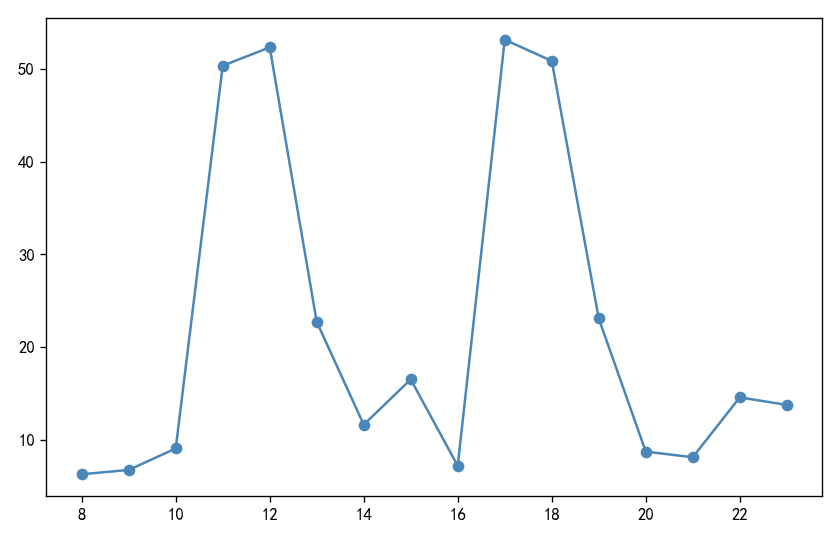
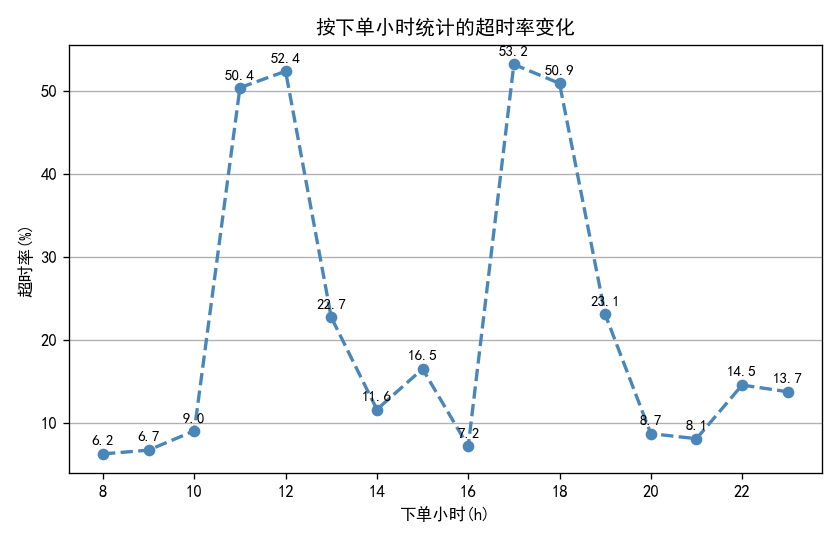
exp2 fig2 build final

Changed region(s): [[0.0, 0.0296, 0.9905, 0.9778]]

diff --git a/exp2/main.py b/exp2/main.py
@@ -2,6 +2,8 @@ import os
 import pandas as pd
 import matplotlib.pyplot as plt
 from matplotlib import font_manager
+from sympy.printing.pretty.pretty_symbology import line_width
+
 
 def use_chinese_font():
     """自动挑一个系统里装了的中文字体，返回字体名；找不到返回 None"""
@@ -61,10 +63,17 @@ def draw_fig1(df):
 
 def draw_fig2(df):
     rate = df.groupby("order_time")["is_overtime"].mean() * 100
+    index = rate.index
 
     fig, ax = plt.subplots(figsize=(7,4.5))
+    ax.plot(rate.index, rate.values, color="#4A87B8", linewidth=2, linestyle="--", marker="o")
+    ax.set_title("按下单小时统计的超时率变化")
+    ax.set_xlabel("下单小时(h)")
+    ax.set_ylabel("超时率(%)")
+    ax.grid(axis="y")
 
-    ax.plot(rate.index, rate.values, color="#4A87B8", marker="o")
+    for i, v in enumerate(rate):
+        ax.text(i+index[0], v+0.8, "%.1f" % v, ha="center", va="bottom",fontsize=9)
 
     save(fig, "fig2.png")
 
